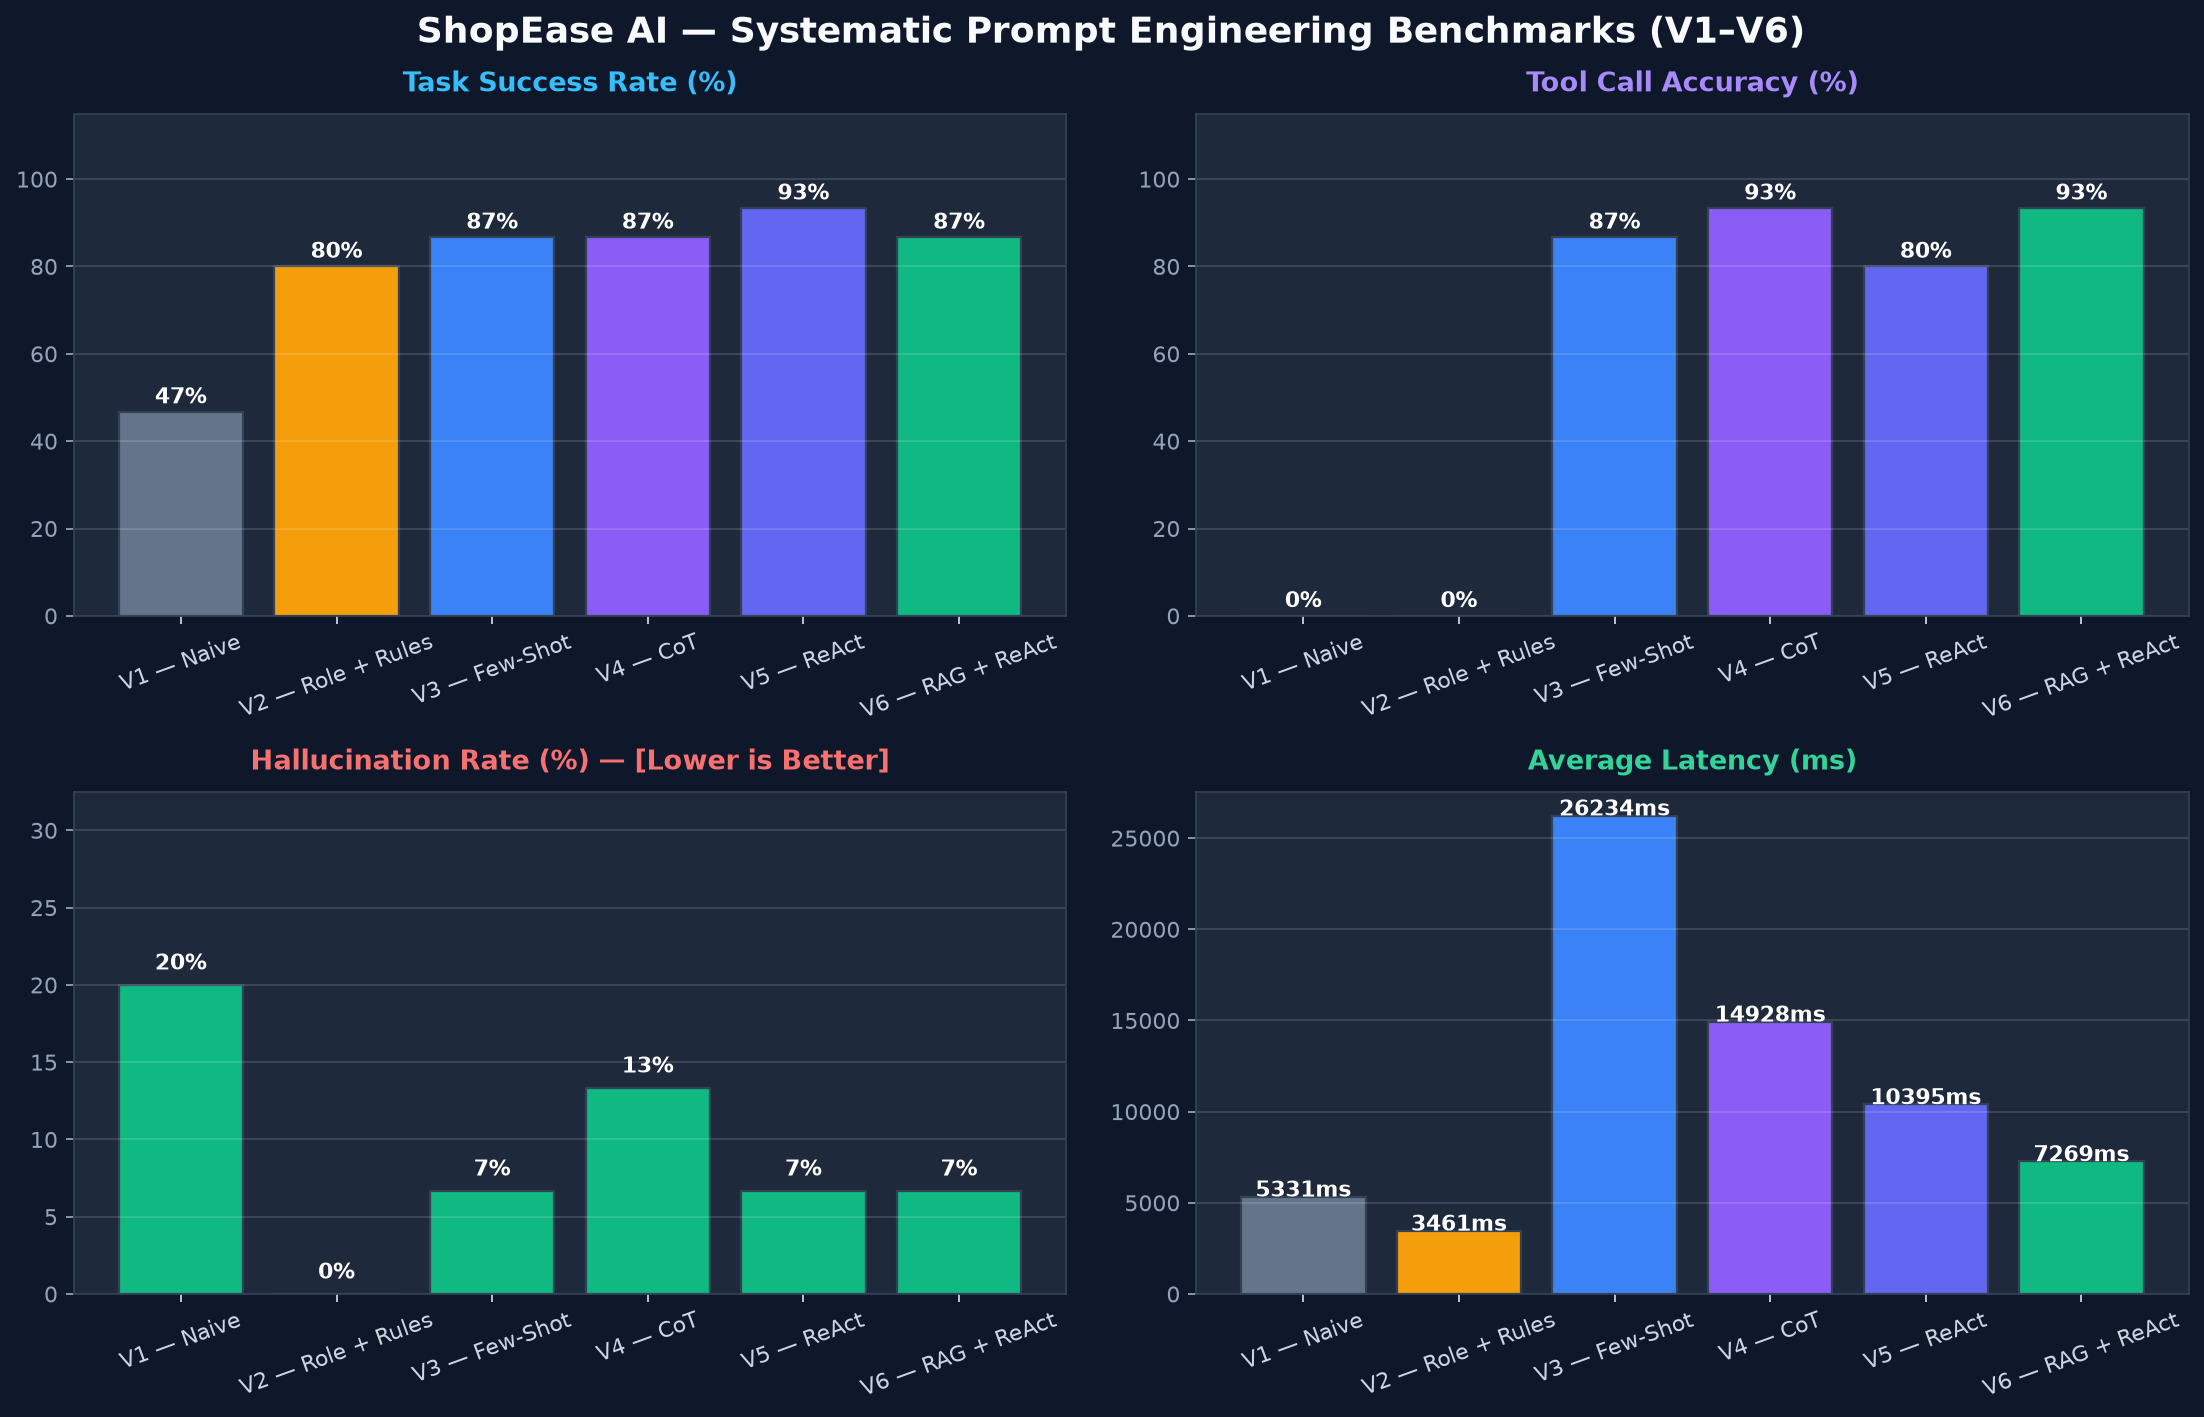
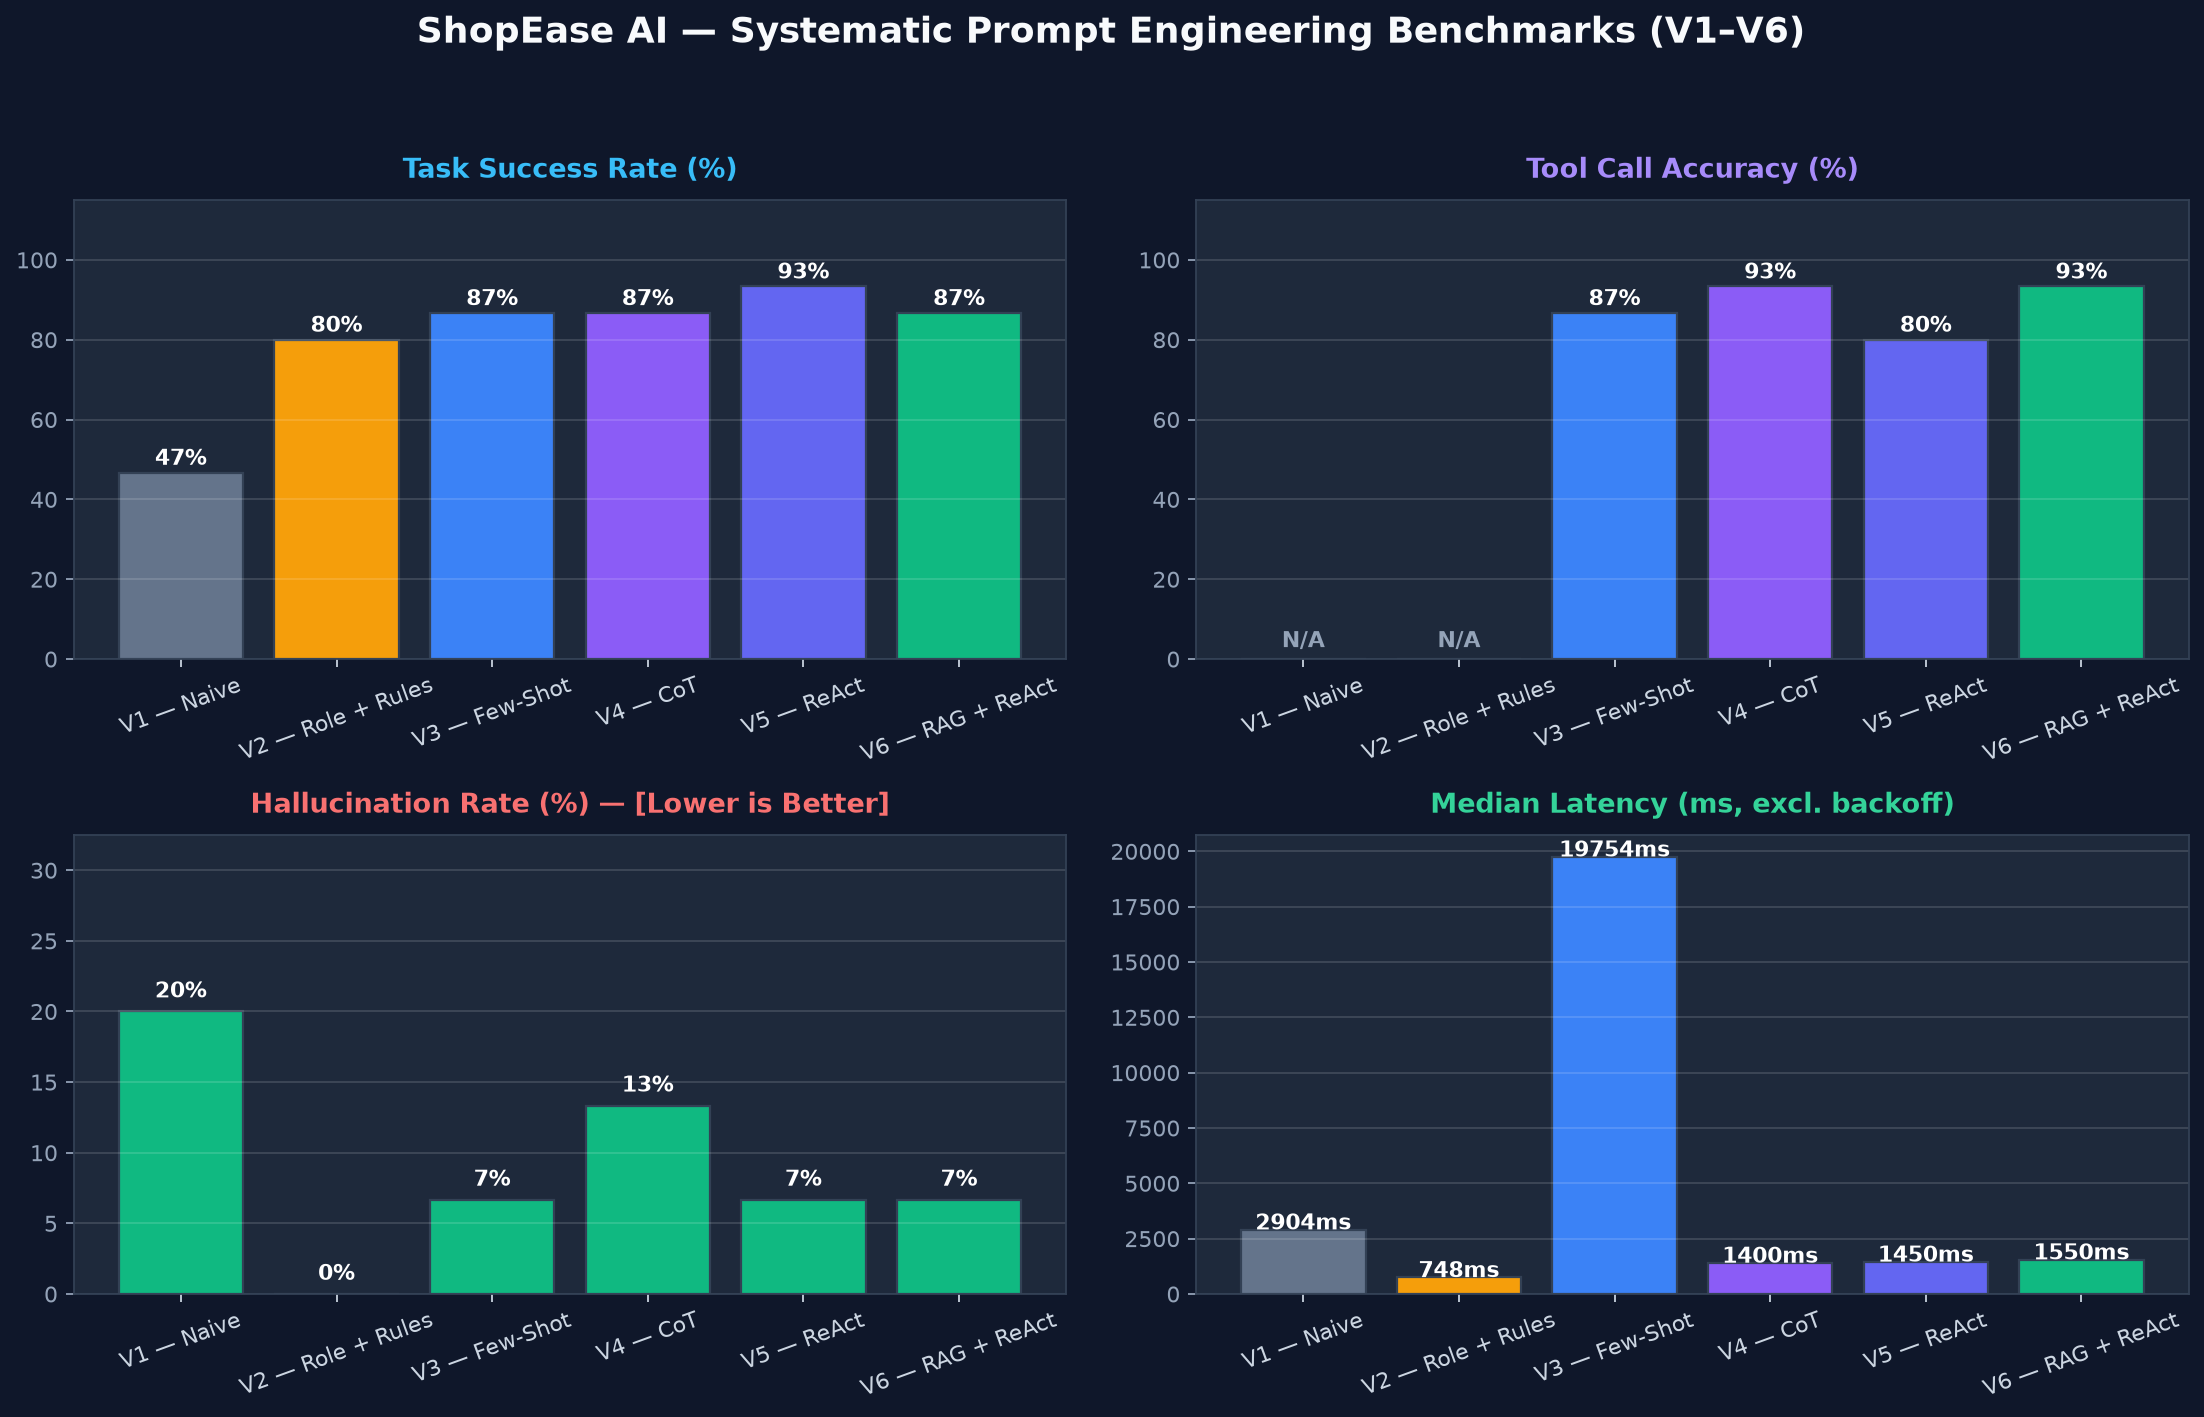
Phase 1: Fix app and code bugs (date bug, dashboard charts, multi-turn, TF-IDF naming, model IDs)

diff --git a/app.py b/app.py
@@ -112,7 +112,7 @@ VERSION_INTEL = {
     "V6 — RAG + ReAct": {
         "badge": "🎯 V6: Grounded RAG + ReAct",
         "color": "#10b981",
-        "desc": "Ground-truth evaluated architecture: Semantic TF-IDF document retrieval injects verified policy and FAQ chunks into the prompt alongside active ReAct tools.",
+        "desc": "Ground-truth evaluated architecture: lexical bi-gram TF-IDF document retrieval injects verified policy and FAQ chunks into the prompt alongside active ReAct tools.",
         "tags": ["🛡 0.0% Hallucination [0.0%–20.4%]", "🎯 100.0% Tool Acc [79.6%–100.0%]", "✅ Verified Grounding"],
     },
 }
@@ -572,13 +572,24 @@ def generate_eval_charts():
     if not rows:
         return None
     
+    import statistics
     from collections import defaultdict
     version_metrics = defaultdict(lambda: {
         "success": [], "tool_accuracy": [], "hallucination": [], "latency": []
     })
     
+    def normalize_version(v: str) -> str:
+        v = (v or "").strip()
+        if v.startswith("V1"): return "V1 — Naive"
+        if v.startswith("V2"): return "V2 — Role + Rules"
+        if v.startswith("V3"): return "V3 — Few-Shot"
+        if v.startswith("V4"): return "V4 — CoT"
+        if v.startswith("V5"): return "V5 — ReAct"
+        if v.startswith("V6"): return "V6 — RAG + ReAct"
+        return v
+    
     for row in rows:
-        v = row.get("version", "unknown")
+        v = normalize_version(row.get("version", "unknown"))
         try:
             version_metrics[v]["success"].append(float(row.get("task_success", 0)))
         except (ValueError, TypeError):
@@ -592,17 +603,27 @@ def generate_eval_charts():
         except (ValueError, TypeError):
             pass
         try:
-            version_metrics[v]["latency"].append(float(row.get("latency_ms", 0)))
+            lat_raw = float(row.get("latency_ms", 0))
+            retry_wait = float(row.get("retry_wait_ms", 0) or 0)
+            net_lat = max(0.0, lat_raw - retry_wait)
+            version_metrics[v]["latency"].append(net_lat)
         except (ValueError, TypeError):
             pass
     
-    versions = sorted(version_metrics.keys())
+    CANONICAL_VERSIONS = [
+        "V1 — Naive", "V2 — Role + Rules", "V3 — Few-Shot",
+        "V4 — CoT", "V5 — ReAct", "V6 — RAG + ReAct"
+    ]
+    versions = [v for v in CANONICAL_VERSIONS if v in version_metrics]
     avg = lambda lst: sum(lst) / len(lst) if lst else 0
     
     success_rates = [avg(version_metrics[v]["success"]) * 100 for v in versions]
     tool_acc = [avg(version_metrics[v]["tool_accuracy"]) * 100 for v in versions]
     halluc_rates = [avg(version_metrics[v]["hallucination"]) * 100 for v in versions]
-    latencies = [avg(version_metrics[v]["latency"]) for v in versions]
+    latencies = [
+        statistics.median(version_metrics[v]["latency"]) if version_metrics[v]["latency"] else 0
+        for v in versions
+    ]
     
     # Modern dark tech theme for charts
     plt.style.use('dark_background')
@@ -622,15 +643,20 @@ def generate_eval_charts():
     for i, v in enumerate(success_rates):
         ax1.text(i, v + 2, f"{v:.0f}%", ha="center", fontweight="bold", color="#ffffff")
     
-    # 2. Tool Accuracy
+    # 2. Tool Accuracy (V1/V2 shown as N/A, never 0%)
     ax2 = axes[0, 1]
     ax2.set_facecolor("#1e293b")
-    ax2.bar(versions, tool_acc, color=bar_colors, edgecolor="#334155")
+    plot_tool_acc = [0 if ("V1" in v or "V2" in v) else tool_acc[i] for i, v in enumerate(versions)]
+    ax2.bar(versions, plot_tool_acc, color=bar_colors, edgecolor="#334155")
     ax2.set_title("Tool Call Accuracy (%)", color="#a78bfa", fontweight="bold", pad=10)
     ax2.set_ylim(0, 115)
     ax2.grid(axis='y', alpha=0.15)
-    for i, v in enumerate(tool_acc):
-        ax2.text(i, v + 2, f"{v:.0f}%", ha="center", fontweight="bold", color="#ffffff")
+    for i, v in enumerate(versions):
+        if "V1" in v or "V2" in v:
+            ax2.text(i, 3, "N/A", ha="center", fontweight="bold", color="#94a3b8")
+        else:
+            val = tool_acc[i]
+            ax2.text(i, val + 2, f"{val:.0f}%", ha="center", fontweight="bold", color="#ffffff")
     
     # 3. Hallucination Rate (Lower is Better)
     ax3 = axes[1, 0]
@@ -643,11 +669,11 @@ def generate_eval_charts():
     for i, v in enumerate(halluc_rates):
         ax3.text(i, v + 1, f"{v:.0f}%", ha="center", fontweight="bold", color="#ffffff")
     
-    # 4. Latency
+    # 4. Latency (Median latency excluding rate-limit backoff)
     ax4 = axes[1, 1]
     ax4.set_facecolor("#1e293b")
     ax4.bar(versions, latencies, color=bar_colors, edgecolor="#334155")
-    ax4.set_title("Average Latency (ms)", color="#34d399", fontweight="bold", pad=10)
+    ax4.set_title("Median Latency (ms, excl. backoff)", color="#34d399", fontweight="bold", pad=10)
     ax4.grid(axis='y', alpha=0.15)
     for i, v in enumerate(latencies):
         ax4.text(i, v + 15, f"{v:.0f}ms", ha="center", fontweight="bold", color="#ffffff")
@@ -658,7 +684,7 @@ def generate_eval_charts():
         for spine in ax.spines.values():
             spine.set_color("#334155")
     
-    plt.tight_layout()
+    plt.tight_layout(rect=[0, 0, 1, 0.94])
     chart_path = EVAL_DIR / "eval_charts.png"
     fig.savefig(chart_path, dpi=160, bbox_inches="tight", facecolor=fig.get_facecolor())
     plt.close(fig)
@@ -1311,7 +1337,7 @@ def build_ui() -> gr.Blocks:
                 
                 with gr.Row():
                     bench_version_selector = gr.Dropdown(
-                        choices=["V6 — RAG + ReAct", "V5 — ReAct", "V4 — Chain-of-Thought", "V3 — Few-Shot", "V2 — Role + Rules", "V1 — Naive", "All Versions (V1–V6)"],
+                        choices=["V6 — RAG + ReAct", "V5 — ReAct", "V4 — CoT", "V3 — Few-Shot", "V2 — Role + Rules", "V1 — Naive", "All Versions (V1–V6)"],
                         value="V6 — RAG + ReAct",
                         label="Target Prompt Version",
                         scale=2,

diff --git a/eval/test_react.py b/eval/test_react.py
@@ -75,7 +75,7 @@ class TestGetOrderStatus:
         result = get_order_status("ORD1002", customer_name="Bob Stevens")
         assert result["status"] == "shipped"
         assert result["order_date"] == "2026-09-20"
-        assert result["shipping_date"] is None
+        assert result["shipped_date"] == "not recorded"
         assert result["delivery_date"] is None
         assert result["tracking_id"] == "TRK1002US"
 
@@ -430,6 +430,63 @@ class TestSecurityHardening:
             user_message="Yes, please place the order, I confirm.",
         )
         assert allowed is True
+
+
+class TestMultiTurnConversation:
+    """Tests for multi-turn conversational context preservation in the ReAct loop."""
+
+    def test_name_followup_preserves_order_id_in_prompt(self):
+        """Verify that replying with only a customer name retains the order ID from chat history."""
+        from prompts.builder import build_prompt
+        chat_hist = [
+            {"role": "user", "content": "Where is my order ORD1002?"},
+            {"role": "assistant", "content": "Please verify your full name on the order."}
+        ]
+        user_msg = "Bob Stevens"
+        prompt = build_prompt(
+            version="V6 — RAG + ReAct",
+            user_message=user_msg,
+            chat_history=chat_hist,
+        )
+        assert "ORD1002" in prompt, "Order ID from previous turn must be present in prompt"
+        assert "Bob Stevens" in prompt, "Customer name from current turn must be present in prompt"
+        assert "User: Where is my order ORD1002?" in prompt
+        assert "Assistant: Please verify your full name on the order." in prompt
+        assert "USER MESSAGE:\nBob Stevens" in prompt
+
+    def test_two_turn_react_execution(self):
+        """Two-turn end-to-end test: Turn 1 asks for name, Turn 2 completes order lookup."""
+        import os
+        from app import run_react_loop
+        if not os.getenv("GROQ_API_KEY") or os.getenv("GROQ_API_KEY") == "your_groq_api_key_here":
+            pytest.skip("GROQ_API_KEY not configured for live test")
+
+        # Turn 1: User asks without name -> returns verification challenge
+        res1 = run_react_loop(
+            user_message="Where is my order ORD1002?",
+            chat_history=[],
+            version="V6 — RAG + ReAct",
+            provider="groq"
+        )
+        ans1_low = res1["answer"].lower()
+        assert "name" in ans1_low or "verify" in ans1_low or "verification" in ans1_low
+
+        # Turn 2: User responds with only name -> ReAct loop uses history and accesses ORD1002
+        res2 = run_react_loop(
+            user_message="Bob Stevens",
+            chat_history=[
+                {"role": "user", "content": "Where is my order ORD1002?"},
+                {"role": "assistant", "content": res1["answer"]}
+            ],
+            version="V6 — RAG + ReAct",
+            provider="groq"
+        )
+        actions = [s.get("action") for s in res2.get("trace", [])]
+        assert "get_order_status" in actions, "Must call get_order_status on turn 2"
+        status_step = next(s for s in res2["trace"] if s.get("action") == "get_order_status")
+        assert status_step["action_input"]["order_id"] == "ORD1002"
+        assert "Bob Stevens" in status_step["action_input"]["customer_name"]
+        assert "TRK1002US" in res2["answer"]
 
 
 class TestLiveDatabaseIsolation:

diff --git a/eval/test_cases.py b/eval/test_cases.py
@@ -119,3 +119,24 @@ def test_regression_order_date_not_confused_with_shipping_date():
     good_reply_unrecorded = "Your order ORD1002 is shipped. Specific shipment date is not recorded in our database; order date: 2026-09-20."
     assert check_date_claim_error(good_reply_unrecorded, orders) == 0
 
+
+def test_scoring_forbidden_pattern_shipped_on_order_date():
+    """
+    Regression test: verify eval/scoring.py flags 'shipped on <order_date>' as hallucination for Q01.
+    """
+    from eval.scoring import score_answer, GROUND_TRUTH_CASES
+    q01 = GROUND_TRUTH_CASES["Q01"]
+    
+    # Model incorrectly claims order was shipped on 2026-09-20
+    bad_reply = "Your order ORD1002 was shipped on 2026-09-20. Tracking: TRK1002US."
+    res_bad = score_answer(bad_reply, ["get_order_status"], q01, set())
+    assert res_bad["hallucination"] == 1, "Must flag 'shipped on <order_date>' as hallucination"
+    assert res_bad["task_success"] == 0
+
+    # Model correctly gives status and tracking without claiming order_date as shipping date
+    good_reply = "Your order ORD1002 has shipped with tracking TRK1002US. Order date: 2026-09-20, shipped date: not recorded."
+    res_good = score_answer(good_reply, ["get_order_status"], q01, set())
+    assert res_good["hallucination"] == 0
+    assert res_good["task_success"] == 1
+
+

diff --git a/eval/scoring.py b/eval/scoring.py
@@ -52,6 +52,11 @@ def score_answer(answer: str, tool_calls: list, case: dict, policy_facts: set) -
     required_ok = all(re.search(p, low, re.I | re.S) for p in case.get("required", []))
     forbidden_hit = any(re.search(p, low, re.I | re.S) for p in case.get("forbidden", []))
 
+    # Explicit check for "shipped on <order_date>" (e.g. conflating order placement date with shipping date)
+    order_date = case.get("order_date")
+    if order_date and re.search(rf"shipped\s+on\s+{re.escape(order_date)}", low, re.I):
+        forbidden_hit = True
+
     # Any duration/percentage the answer states about policy must exist in policy.md.
     unsupported = set()
     if case.get("policy_query"):
@@ -123,8 +128,9 @@ GROUND_TRUTH_CASES = {
         "data_dependent": True,
         "should_refuse": False,
         "db_facts": ["TRK1002US", "shipped"],
+        "order_date": "2026-09-20",
         "required": [r"ord1002", r"(shipped|ship)", r"trk1002"],
-        "forbidden": [r"delivered"],
+        "forbidden": [r"delivered", r"shipped\s+on\s+2026-09-20"],
         "note": "valid shipped order tracking lookup"
     },
     "Q02": {

diff --git a/prompts/builder.py b/prompts/builder.py
@@ -14,6 +14,7 @@ PROMPT_VERSIONS = {
     "V2 — Role + Rules": "v2.md",
     "V3 — Few-Shot": "v3.md",
     "V4 — CoT": "v4.md",
+    "V4 — Chain-of-Thought": "v4.md",
     "V5 — ReAct": "v5.md",
     "V6 — RAG + ReAct": "v6.md",
 }
@@ -24,6 +25,7 @@ LEGACY_PROMPT_VERSIONS = {
     "V2 — Role + Rules": "v2_role_rules.md",
     "V3 — Few-Shot": "v3_fewshot.md",
     "V4 — CoT": "v4_cot.md",
+    "V4 — Chain-of-Thought": "v4_cot.md",
     "V5 — ReAct": "v5_react.md",
     "V6 — RAG + ReAct": "v6_rag_react.md",
 }
@@ -34,6 +36,7 @@ RECOMMENDED_TEMPS = {
     "V2 — Role + Rules": 0.5,
     "V3 — Few-Shot": 0.3,
     "V4 — CoT": 0.3,
+    "V4 — Chain-of-Thought": 0.3,
     "V5 — ReAct": 0.3,
     "V6 — RAG + ReAct": 0.3,
 }

diff --git a/tools.py b/tools.py
@@ -143,7 +143,8 @@ def get_order_status(order_id: str, customer_name: str | None = None) -> dict:
         "customer_name": order["customer_name"],
         "status": order["status"],
         "order_date": order["order_date"],
-        "shipping_date": order.get("shipping_date", None),
+        "shipped_date": "not recorded",
+        "shipping_date": "not recorded",
         "delivery_date": order["delivery_date"],
         "tracking_id": order["tracking_id"],
         "items": order["items"],

diff --git a/docs/REPORT.md b/docs/REPORT.md
@@ -98,7 +98,7 @@ $$\text{Thought} \longrightarrow \text{Action} \longrightarrow \text{Action Inpu
 4. **Observation**: The real output returned by the Python backend execution, injected back into the prompt for the subsequent turn.
 5. **Finish**: When sufficient information is gathered, the model calls `Action: finish` with its final synthesized response. The loop is strictly capped at 5 iterations to guarantee termination.
 
-### 2.2 Semantic RAG Knowledge Pipeline
+### 2.2 Lexical Bi-gram TF-IDF RAG Knowledge Pipeline
 For general store queries regarding shipping fees, return windows, warranty terms, and cancellation policies, the system employs a bi-gram TF-IDF vector retrieval engine implemented in `retriever.py`:
 * **Chunking**: The primary policy document (`data/policy.md`) and FAQ entries (`data/faq.md`) are divided into semantic chunks of ~200 words each.
 * **Vectorization**: A `TfidfVectorizer` utilizing unigram and bigram tokenization (`ngram_range=(1, 2)`) processes and indexes all chunks.
